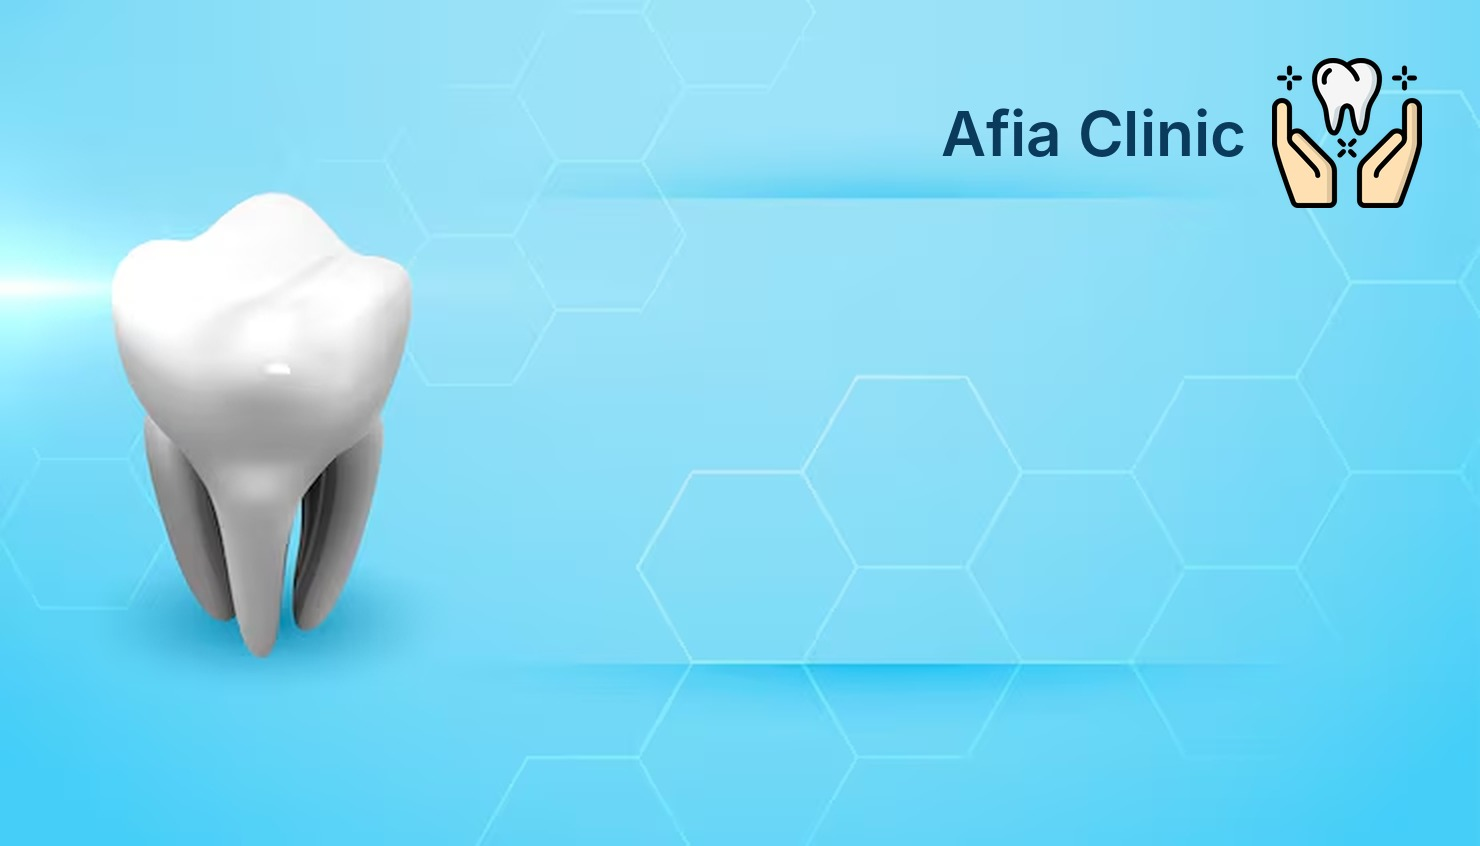
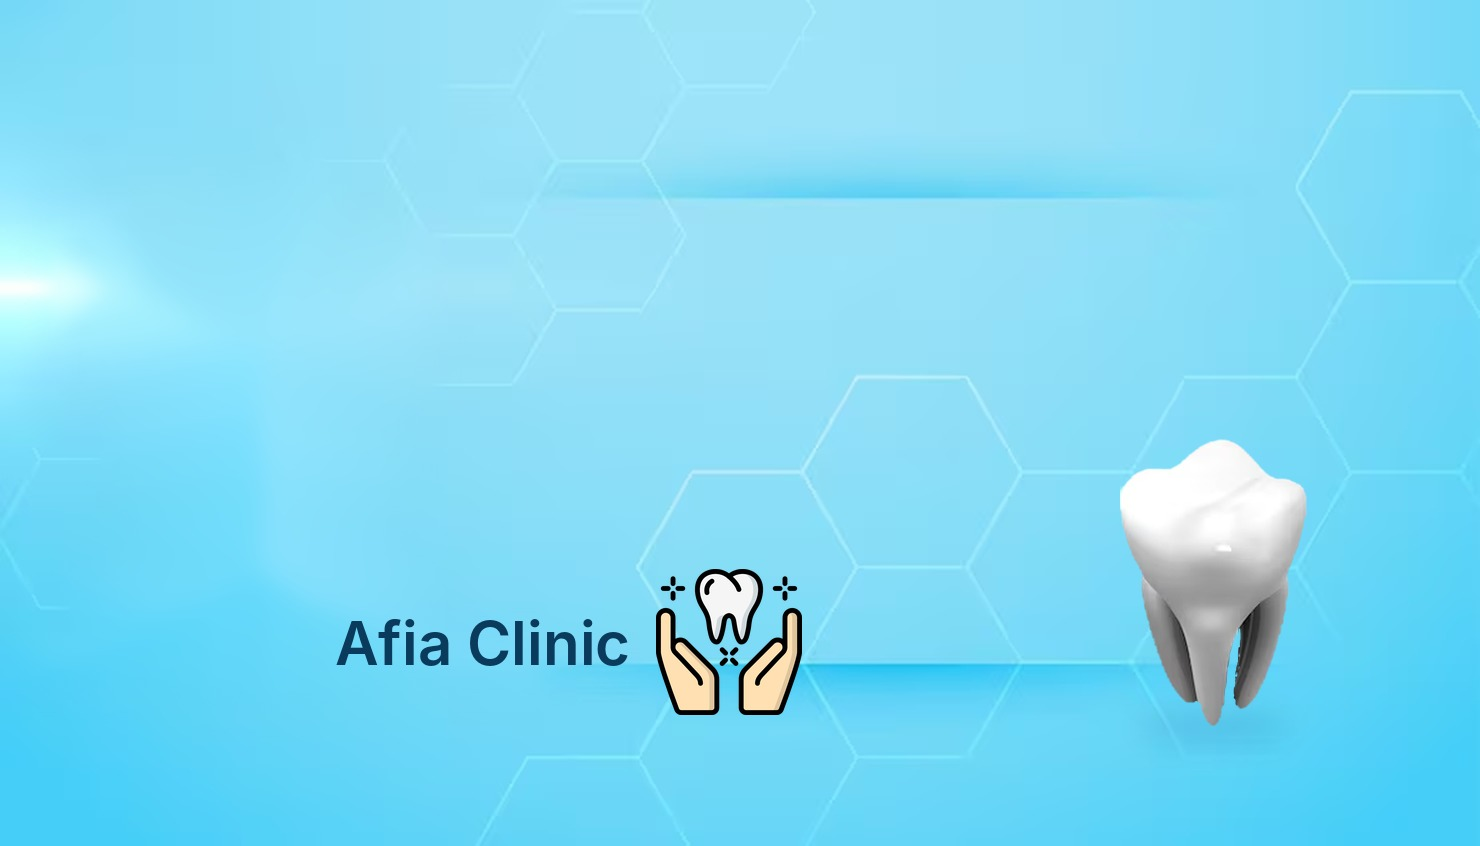
feat(branding): move the tooth and lockup clear of the app tiles
With the background finally rendering, it was obvious the composition had
been designed blind: the tooth sat under the Inventory and Employees tiles
and the lockup was buried behind Dashboards, Invoicing and Website. The
artwork was fine in isolation and unusable in place.

Both now sit in the lower band, below the two tile rows, per Manhel's
markup: the tooth smaller and bottom right, the lockup bottom centre.

Moving the tooth meant lifting it off its own backdrop. It was keyed out on
saturation, which separates enamel and roots from the cyan field cleanly,
then the hole was inpainted. Its cast shadow needed a second pass: the
shadow is saturated blue, so the saturation key ignored it, and it had to be
found by comparing each row against the clean field to the right. A fresh
ground shadow is drawn under the new position so the tooth stands rather
than floats.

Version moves to 18.0.1.0.5 so the seeding migration runs again. Databases
already carrying the previous branded default are matched by the sha
recorded when it was seeded, so they take this one; a clinic's own uploaded
artwork still matches nothing and is left alone.

Claude-Session: https://claude.ai/code/session_01C3nk4nzCpF8QQ9SnM6RZvm

Changed region(s): [[0.0622, 0.2151, 0.5595, 0.8605], [0.7459, 0.5225, 0.9014, 0.8605], [0.6216, 0.0615, 0.9635, 0.2459]]

diff --git a/modules/afia_app_launcher/hooks.py b/modules/afia_app_launcher/hooks.py
@@ -30,7 +30,9 @@ _BG_SHA_PARAM = 'afia_launcher.bg_default_sha'
 # those installs are still showing would be mistaken for a clinic upload and
 # left in place forever. Append, never remove.
 _SHIPPED_DEFAULT_SHAS = {
-    # Unbranded dental background, shipped until 18.0.1.0.4.
+    # Unbranded dental background, shipped until 18.0.1.0.4. The branded ones that followed are
+    # matched by the recorded sha below instead, which every database seeded
+    # since 18.0.1.0.4 carries.
[1 lines of base64/hex data omitted]
 }
 

diff --git a/modules/afia_app_launcher/__manifest__.py b/modules/afia_app_launcher/__manifest__.py
@@ -1,6 +1,6 @@
 # -*- coding: utf-8 -*-
 {'name': 'Afia App Launcher',
- 'version': '18.0.1.0.4',
+ 'version': '18.0.1.0.5',
  'category': 'Dental/Afia',
  'summary': 'Enterprise-style home screen with role-filtered app tiles, live search and '
             'drag-and-drop personalisation.',
